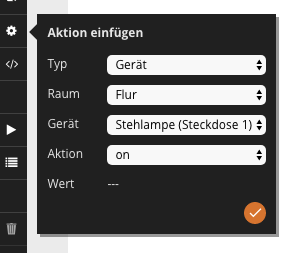
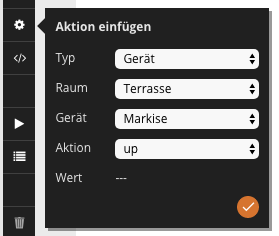
Dokumentation erweitert

diff --git a/README.md b/README.md
@@ -30,8 +30,8 @@ Aufruf von beliebigen Tasks auf dem _MediolaServer_.
 
 Hiermit können alle Geräteaktionen, die auf den _MediolaServer_ verfügbar sind, aufgerufen werden, ebenso die definierten Makros sowie jeder verfügbare Gerätstatus angerufen werden.
 
-Wichtig: das macht überhaupt keinen Sinn für Geräte, die nativ im IPS eingebunden werden können (wie z.B. HomeMatic), für viele Geräte, die am Gateway angelernt sind, gibt es direkte Aufrufe, die in dem Modul [Wolbolar/IPSymconAIOGateway](https://github.com/Wolbolar/IPSymconAIOGateway) angedeckt sind. Es gibt aber Geräte, die werde so noch so zu erreichen sind, aber von Mediola angebunden wurden. z.B. der Warema-Gateway (bei mir mit einer Markiese) ist in Mediola angebunden, die API ist nicht öffentlich und zudem verschlüsselt.
-Man könnte natürlich für jede Funktion ein eigenen Task machen, aber das ist nicht wirklich umsetzbar bei Aufrufen mit variablem Anteil (Markiese auf Postion 50% fahren).
+Wichtig: das macht überhaupt keinen Sinn für Geräte, die nativ im IPS eingebunden werden können (wie z.B. HomeMatic), für viele Geräte, die am Gateway angelernt sind, gibt es direkte Aufrufe, die in dem Modul [Wolbolar/IPSymconAIOGateway](https://github.com/Wolbolar/IPSymconAIOGateway) angedeckt sind. Es gibt aber Geräte, die werde so noch so zu erreichen sind, aber von Mediola angebunden wurden. z.B. der Warema-Gateway (bei mir mit einer Markise) ist in Mediola angebunden, die API ist nicht öffentlich und zudem verschlüsselt.
+Man könnte natürlich für jede Funktion ein eigenen Task machen, aber das ist nicht wirklich umsetzbar bei Aufrufen mit variablem Anteil (Markise auf Postion 50% fahren).
 
 Daher habe ich ein Interface geschaffen, das über einen generellen Task auf dem _MediolaServer_ jede dort verfügbaren Geräte-Aktion aufrufen, jeden Gerätes-Status abrufen und auch jedes Makro auslösen kann.
 
@@ -47,7 +47,7 @@ Bei der Abfrage eines Gerätestatus wird bei Eingang der Antwort vom _MediolaSer
 
 In einer Varianle _Queue_ werden die anstehenden bzw. abgelaufenen Aktionen für eine gewisse Zeit aufbewahrt (_max. Alter der Queue_) und dann gelöscht.
 
-Bei den Funktionen gibt es den Parameter _async_, ist er _false_, wird die nächste AKtion in der Queue erst aufgerufen, wenn es eine Rückmeldung des Status (_status_) oder Wertes (_value_) vom _MediolaServer_ gegeben hat. Meiner Beobachtung nach kann man aber im Regelfall _async_ = _true_ verwenden.
+Bei den Funktionen gibt es den Parameter _wait4reply_, ist er _false_, wird die nächste Aktion in der Queue erst aufgerufen, wenn es eine Rückmeldung des Status (_status_) oder Wertes (_value_) vom _MediolaServer_ gegeben hat. Meiner Beobachtung nach kann man aber im Regelfall _wait4reply_ = _true_ verwenden.
 
 Ein Aufruf eines Tasts, der nicht innerhalb einer bsetimmten Zeit (_max. Wartezeit_) abgesickelt ist, wird aus _überfällig_ markiert und nicht mehr behandelt.
 
@@ -97,15 +97,15 @@ $args = ['test' => '1'];
 ```
 Rückgabewert ist _false_, wenn dieser Task nicht existiert bzw. nicht aufgerufen werden konnte.
 
-`int ExecuteCommand(int $InstanzID, string $room, string $device, string $action, string $value, bool $async)`<br>
+`int ExecuteCommand(int $InstanzID, string $room, string $device, string $action, string $value, bool $wait4reply)`<br>
 Aufrufe einer beliebigen Geräteaktion über den o.g. Task.
 Rückgabewert ist die ID der Aktion.
 
-`int ExecuteMakro(int $InstanzID, string $group, string $macro, bool $async)`<br>
+`int ExecuteMakro(int $InstanzID, string $group, string $macro, bool $wait4reply)`<br>
 Aufrufe eines Makros über den o.g. Task.
 Rückgabewert ist die ID der Aktion.
 
-`int GetStatus(int $InstanzID, string $room, string $device, string $variable, int $objID, bool $async)`<br>
+`int GetStatus(int $InstanzID, string $room, string $device, string $variable, int $objID, bool $wait4reply)`<br>
 Abfrage eines Gerätestats über den o.g. Task. _objID_ ist entweder die ID einer Variablen (mit zum Mediola-Gerätestatus passenden Typ) oder ein Script, dem das Ergebnis übergeben wird.
 
 ```
@@ -162,6 +162,24 @@ Abfrage von Variablenwerten des _MediolaServer_s, die _adr_ ist die im Gerätema
 - Modul: `{C0BD3A9B-D600-4B78-B9CC-173AC2819CE5}`
 - Instanzen:
   - MediolaServer: `{3525077B-2902-459F-BFA9-E9F4F18B4C0B}`
+
+### Beispiele
+
+![Mediola-Task](docs/Geraeteaktion_1a.png?raw=true "Geräteaktion 1a") ![Mediola-Task](docs/Geraeteaktion_1b.png?raw=true "Geräteaktion 1b")
+
+`ExecuteCommand(4711, 'Gerät', 'Terrasse', 'up', '', true);`
+
+![Mediola-Task](docs/Geraeteaktion_2a.png?raw=true "Geräteaktion 2a") ![Mediola-Task](docs/Geraeteaktion_2b.png?raw=true "Geräteaktion 2b")
+
+`ExecuteCommand(4711, 'Gerät', 'Terrasse', 'moveTo', '50', true);`
+
+![Mediola-Task](docs/Geraetestatus_1a.png?raw=true "Gerätestatus 1a") ![Mediola-Task](docs/Geraetestatus_1b.png?raw=true "Gerätestatus 1b")
+
+`GetStatus(4711, 'Gerät', 'Terrasse', 'position', true);`
+
+![Mediola-Task](docs/Makro_1a.png?raw=true "Makro 1a") ![Mediola-Task](docs/Makro_1b.png?raw=true "Makro 1b")
+
+`ExecuteMakro(4711, 'Aussenleuchten', 'Ausschalten', true);`
 
 ## 7. Versions-Historie
 
